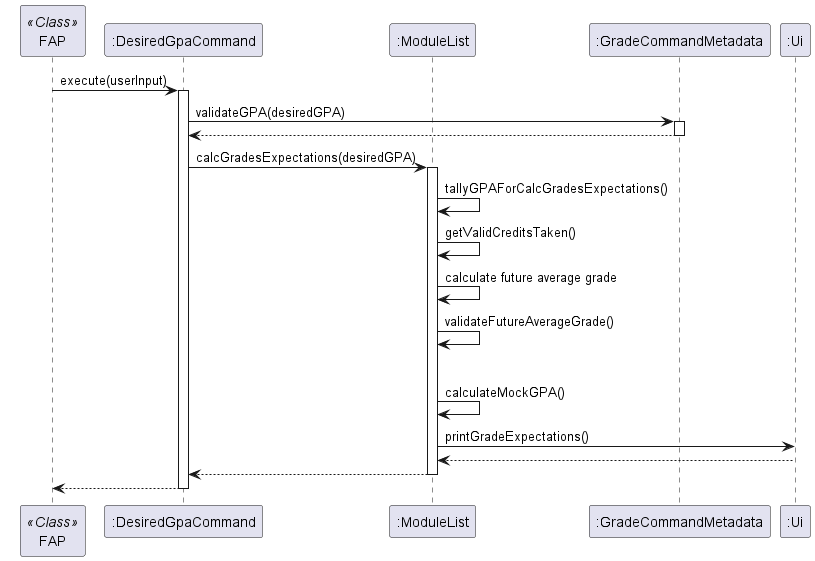
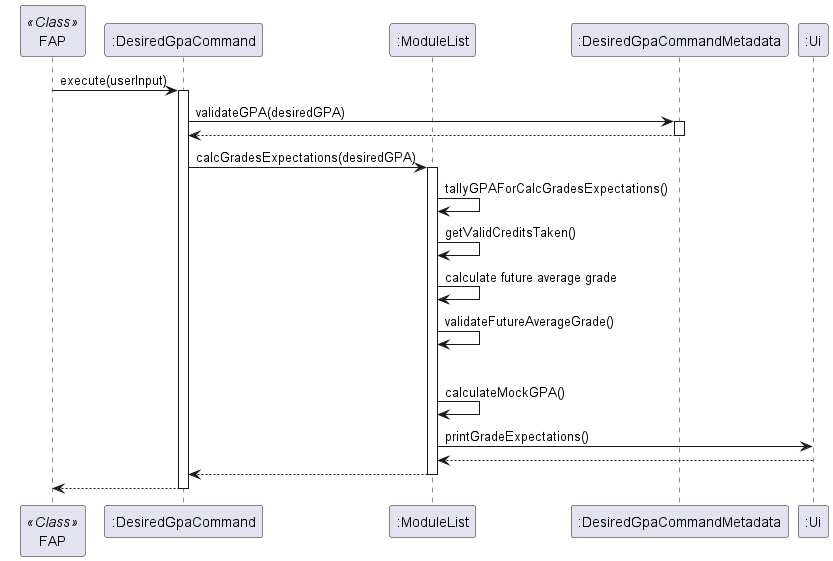
Add more Javadocs

diff --git a/src/main/java/seedu/duke/ui/Ui.java b/src/main/java/seedu/duke/ui/Ui.java
@@ -37,6 +37,18 @@ public class Ui {
         this.in = new Scanner(System.in);
     }
 
+    /**
+     * Prints the expected grades and GPA needed to achieve the desired GPA.
+     *
+     * @param moduleList            The ModuleList object containing the list of modules.
+     * @param desiredGPA            The desired GPA.
+     * @param acquiredGPA           The final GPA achieved by graduation with the expected grades.
+     * @param upperBoundGradeNeeded The number of upper bound grades needed.
+     * @param upperBound            The upper bound grade.
+     * @param lowerBoundGradeNeeded The number of lower bound grades needed.
+     * @param lowerBound            The lower bound grade.
+     * @param moduleCreditsNotTaken The remaining module credits to take.
+     */
     public static void printGradeExpectations(ModuleList moduleList, double desiredGPA, double acquiredGPA,
                                               int upperBoundGradeNeeded, double upperBound, int lowerBoundGradeNeeded,
                                               double lowerBound, float moduleCreditsNotTaken) {
@@ -57,7 +69,12 @@ public class Ui {
         in.close();
     }
 
-    public String getUserCommand() {
+    /**
+     * Retrieves user input from the console. Ignores input that are white spaces or comments
+     *
+     * @return The user input as a String.
+     */
+    public String getUserInput() {
         printHyphens();
         String currentLine = in.nextLine();
 
@@ -72,6 +89,12 @@ public class Ui {
         System.out.println(str);
     }
 
+    /**
+     * Determines whether the given line of input should be ignored.
+     *
+     * @param currentLine The line of input to be checked.
+     * @return True if the line should be ignored, false otherwise.
+     */
     private boolean shouldIgnore(String currentLine) {
         return currentLine.isBlank() || currentLine.trim().matches(COMMENT_LINE_FORMAT_REGEX);
     }

diff --git a/src/main/java/seedu/duke/modules/Module.java b/src/main/java/seedu/duke/modules/Module.java
@@ -38,10 +38,22 @@ public class Module {
         this.moduleCode = moduleCode;
     }
 
+    /**
+     * Gets the grade of the module.
+     *
+     * @return The grade of the module.
+     */
     public String getModuleGrade() {
         return moduleGrade;
     }
 
+    /**
+     * Sets the grade of the module. Throws an exception if moduleGrade is an invalid string, if a Graded mod is
+     * assigned with "CS", or if a CS/CU mod is assigned with a letter grade.
+     *
+     * @param moduleGrade The grade to set for the module.
+     * @throws ModuleException If the module grade is invalid or does not fit the module.
+     */
     public void setModuleGrade(String moduleGrade) throws ModuleException {
 
         if (moduleGrade == null || !moduleGrade.matches("[AB][+-]?|[CD][+]?|F|CS|S")) {
@@ -93,6 +105,12 @@ public class Module {
         this.moduleDate = moduleDate;
     }
 
+    /**
+     * Returns the numerical value of the grade based on the module grade.
+     *
+     * @return The numerical value of the grade.
+     * @throws IllegalStateException If the module grade is invalid or unassigned.
+     */
     public double getGradeNumber () {
         switch (moduleGrade) {
         case "A+":
@@ -122,6 +140,11 @@ public class Module {
         }
     }
 
+    /**
+     * Checks if the module has been assigned a grade, which is no if module grade is null.
+     *
+     * @return true if the module grade is null, false otherwise.
+     */
     public boolean gradeIsNull() {
         return moduleGrade == null;
     }
@@ -133,9 +156,5 @@ public class Module {
                 ", moduleGrade='" + moduleGrade + '\'' +
                 ", moduleMC='" + moduleMC + '\'' +
                 '}';
-    }
-
-    public boolean isGradedGradingBasis() {
-        return gradedGradingBasis;
     }
 }

diff --git a/src/main/java/seedu/duke/command/DesiredGpaCommand.java b/src/main/java/seedu/duke/command/DesiredGpaCommand.java
@@ -1,6 +1,6 @@
 package seedu.duke.command;
 import seedu.duke.exceptions.InvalidGpaException;
-import seedu.duke.parser.GradeCommandMetadata;
+import seedu.duke.parser.DesiredGpaCommandMetadata;
 
 /**
  * Represents the command to check for feasibility of desired GPA.
@@ -15,7 +15,7 @@ public class DesiredGpaCommand extends Command{
     @Override
     public void execute(String userInput) {
         try {
-            GradeCommandMetadata.validateGPA(desiredGPA);
+            DesiredGpaCommandMetadata.validateGPA(desiredGPA);
             moduleList.calcGradesExpectations(desiredGPA);
         } catch (InvalidGpaException e) {
             System.out.println(e.getMessage());

diff --git a/src/main/java/seedu/duke/parser/DesiredGpaCommandMetadata.java b/src/main/java/seedu/duke/parser/DesiredGpaCommandMetadata.java
@@ -2,6 +2,7 @@ package seedu.duke.parser;
 
 import seedu.duke.command.Command;
 import seedu.duke.command.DesiredGpaCommand;
+import seedu.duke.exceptions.InvalidGpaException;
 
 import java.util.Map;
 
@@ -11,6 +12,12 @@ public class DesiredGpaCommandMetadata extends CommandMetadata{
 
     public DesiredGpaCommandMetadata() {
         super(DESIREDGPA_KEYWORD, DESIREDGPA_ARGUMENTS);
+    }
+
+    public static void validateGPA(double gpa) throws InvalidGpaException {
+        if (gpa > 5 || gpa <0) {
+            throw new InvalidGpaException("GPA must be within 0 to 5.");
+        }
     }
 
     @Override

diff --git a/src/main/java/seedu/duke/parser/GradeCommandMetadata.java b/src/main/java/seedu/duke/parser/GradeCommandMetadata.java
@@ -2,7 +2,6 @@ package seedu.duke.parser;
 
 import seedu.duke.command.Command;
 import seedu.duke.command.GradeCommand;
-import seedu.duke.exceptions.InvalidGpaException;
 
 import java.util.Map;
 
@@ -12,12 +11,6 @@ public class GradeCommandMetadata extends CommandMetadata {
 
     public GradeCommandMetadata() {
         super(GRADE_KEYWORD, GRADE_ARGUMENTS);
-    }
-
-    public static void validateGPA(double gpa) throws InvalidGpaException {
-        if (gpa > 5 || gpa <0) {
-            throw new InvalidGpaException("GPA must be within 0 to 5.");
-        }
     }
 
     // Grade Command Creator

diff --git a/src/main/java/seedu/duke/FAP.java b/src/main/java/seedu/duke/FAP.java
@@ -69,7 +69,7 @@ public class FAP {
 
         while (continueRunning) {
             try {
-                String userInput = ui.getUserCommand();
+                String userInput = ui.getUserInput();
                 LOGGER.log(Level.INFO, "User input: " + userInput);
                 Command command = Parser.getCommand(userInput);
                 command.execute(userInput);
